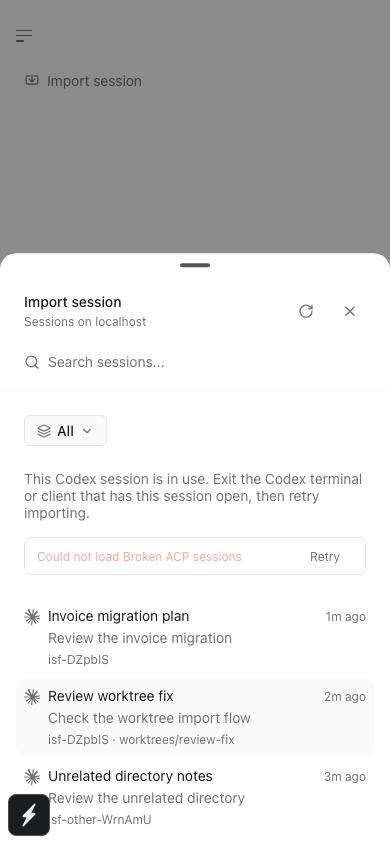
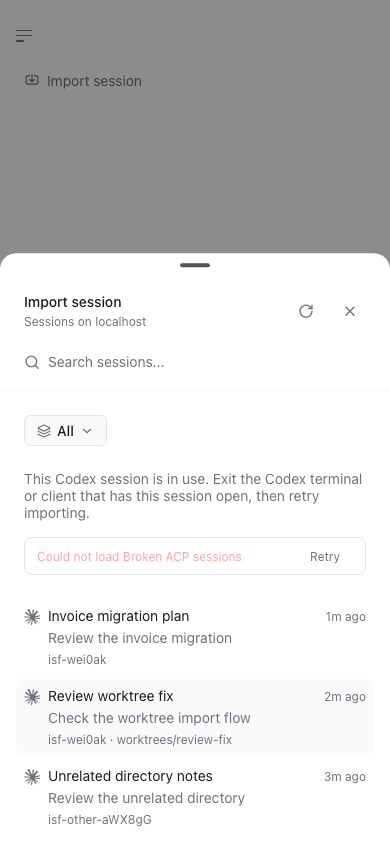
test(app): cover session import edge cases
Cover older matches, paging, and a new typed query while an earlier
provider response is held.

Verify generic filesystem failure copy hides raw details and permits
retry after restoring the path. Clean up projects created by the test.

Refresh the screenshot showing current active-writer guidance.

Detected-By: user

diff --git a/packages/app/e2e/browser/import-session-flow.spec.ts b/packages/app/e2e/browser/import-session-flow.spec.ts
@@ -1,6 +1,6 @@
 import { execFileSync } from "node:child_process";
 import { mkdtempSync } from "node:fs";
-import { mkdir, rm, utimes, writeFile } from "node:fs/promises";
+import { mkdir, rename, rm, utimes, writeFile } from "node:fs/promises";
 import { tmpdir } from "node:os";
 import path from "node:path";
 import type { TestInfo } from "@playwright/test";
@@ -120,20 +120,42 @@ test.afterAll(async () => {
   await rm(claudeConfigDirectory, { recursive: true, force: true });
 });
 
-test("filters cached sessions before searching a persistent miss", async ({ page }, testInfo) => {
-  const requests: Array<{ query: string; providers: string }> = [];
+interface SessionRequest {
+  query: string;
+  providers: string;
+  limit: number;
+}
+
+function observeSessionRequests(page: Page): SessionRequest[] {
+  const requests: SessionRequest[] = [];
   page.on("websocket", (socket) =>
     socket.on("framesent", ({ payload }) => {
       if (typeof payload !== "string") return;
-      const frame: { message?: { type?: string; query?: string; providers?: string[] } } =
-        JSON.parse(payload);
+      const frame: {
+        message?: { type?: string; query?: string; providers?: string[]; limit?: number };
+      } = JSON.parse(payload);
       if (frame.message?.type === "fetch_recent_provider_sessions_request")
         requests.push({
           query: frame.message.query ?? "",
           providers: (frame.message.providers ?? []).join(","),
+          limit: frame.message.limit ?? 15,
         });
     }),
   );
+  return requests;
+}
+
+function sessionRequestProviders(request: object): string {
+  if (!("providers" in request) || !Array.isArray(request.providers)) {
+    throw new Error("Session request must identify its providers");
+  }
+  return request.providers.join(",");
+}
+
+test("keeps cached matches visible while finding older matches and paging the host results", async ({
+  page,
+}, testInfo) => {
+  const requests = observeSessionRequests(page);
   const flow = new ImportSessionFlow(page);
   await flow.openWorkspace(scenario.project.workspaceId, { width: 390, height: 844 });
   await flow.openGlobally();
@@ -141,33 +163,90 @@ test("filters cached sessions before searching a persistent miss", async ({ page
     first: [scenario.importSessionId, "fixture-worktree", "fixture-unrelated"],
   });
   await flow.expectProviderError("Broken ACP");
-  expect(requests.length).toBeGreaterThan(0);
-  const initialRequests = [...requests];
+  const initialProviders = [...new Set(requests.map((request) => request.providers))].sort();
+  expect(initialProviders).toContain("claude");
+  expect(initialProviders).toContain(brokenProvider);
   await page.clock.install();
-  await flow.search("invoice");
-  await page.clock.runFor(600);
-  expect(requests).toEqual(initialRequests);
-  await page.getByTestId("import-session-search").fill("no-such-session");
-  await page.clock.runFor(200);
-  expect(requests).toEqual(initialRequests);
-  await flow.search("invoice");
-  await page.clock.runFor(600);
-  expect(requests).toEqual(initialRequests);
-  await page.getByTestId("import-session-search").fill("fixture item 20");
+  await page.clock.pauseAt(Date.now() + 1_000);
+  const search = page.getByTestId("import-session-search");
+  await search.fill("invoice");
+  await expect(page.getByText("Invoice migration plan", { exact: true })).toBeVisible();
+  await expect(page.getByText("Root session 20", { exact: true })).toHaveCount(0);
+  // Paging remains available while the typed query catches up with the host query.
+  await expect(page.getByTestId("import-session-load-more")).toBeVisible();
+  expect(requests.filter((request) => request.query === "invoice")).toEqual([]);
   await page.clock.runFor(450);
   await expect(page.getByText("Root session 20", { exact: true })).toBeVisible();
   expect(
     requests
-      .filter((request) => request.query === "fixture item 20")
+      .filter((request) => request.query === "invoice")
       .map((request) => request.providers)
       .sort(),
-  ).toEqual([...new Set(initialRequests.map((request) => request.providers))].sort());
-  await page.getByTestId("import-session-search").fill("item 20");
-  await page.clock.runFor(600);
-  expect(requests.filter((request) => request.query === "item 20")).toEqual([]);
+  ).toEqual(initialProviders);
+  await expect(page.getByTestId("import-session-load-more")).toHaveCount(0);
+
+  await search.fill("no-such-session");
+  await page.clock.runFor(200);
+  await search.fill("Root session");
+  await page.clock.runFor(450);
+  await expect(page.getByTestId("import-session-load-more")).toBeEnabled();
+  expect(requests.filter((request) => request.query === "no-such-session")).toEqual([]);
+  await expect(page.getByText("Root session 19", { exact: true })).toHaveCount(0);
+  await page.getByTestId("import-session-load-more").click();
+  await expect(page.getByTestId("import-session-session-claude-fixture-root-19")).toHaveCount(1);
+  await expect(page.locator('[data-testid^="import-session-session-claude-"]')).toHaveCount(20);
+  await expect(page.getByTestId("import-session-load-more")).toHaveCount(0);
+  expect(
+    requests
+      .filter((request) => request.query === "Root session" && request.providers === "claude")
+      .map((request) => request.limit),
+  ).toEqual([15, 45]);
   await page.screenshot({ path: testInfo.outputPath("cached-session-search.png") });
-  await page.getByRole("button", { name: "Close", exact: true }).click();
-  await expect(page.getByTestId("import-session-sheet")).toHaveCount(0);
+});
+
+test("starts a new session search while a previous provider request is pending", async ({
+  page,
+}) => {
+  const gate = await installDaemonWebSocketGate(page);
+  try {
+    const flow = new ImportSessionFlow(page);
+    await flow.openWorkspace(scenario.project.workspaceId, { width: 390, height: 844 });
+    await flow.openGlobally();
+    await flow.expectRows({
+      first: [scenario.importSessionId, "fixture-worktree", "fixture-unrelated"],
+    });
+    await flow.expectProviderError("Broken ACP");
+    await expect(page.getByTestId("import-session-load-more")).toBeEnabled();
+    const requestType = "fetch_recent_provider_sessions_request";
+    const initialProviders = [
+      ...new Set(gate.getClientRequests(requestType).map(sessionRequestProviders)),
+    ].sort();
+    expect(initialProviders).toContain(brokenProvider);
+    expect(initialProviders).toContain("claude");
+    await page.clock.install();
+    await page.clock.pauseAt(Date.now() + 1_000);
+    const responseType = "fetch_recent_provider_sessions_response";
+    gate.holdNextServerMessage(responseType);
+    const search = page.getByTestId("import-session-search");
+    await search.fill("invoice");
+    await page.clock.runFor(450);
+    await gate.waitForHeldServerMessage(responseType);
+    await search.fill("Root session 20");
+    await page.clock.runFor(450);
+    await expect
+      .poll(() =>
+        gate
+          .getClientRequests(requestType)
+          .filter((request) => "query" in request && request.query === "Root session 20")
+          .map(sessionRequestProviders)
+          .sort(),
+      )
+      .toEqual(initialProviders);
+    await expect(page.getByText("Root session 20", { exact: true })).toBeVisible();
+    gate.releaseHeldServerMessage(responseType);
+  } finally {
+    gate.restore();
+  }
 });
 
 test("an open Import Session row keeps its age current", async ({ page }) => {
@@ -301,6 +380,44 @@ test("an active-writer conflict shows specific guidance instead of a generic fai
   }
 });
 
+test("an import failure keeps generic copy visible and permits retry after recovery", async ({
+  page,
+}, testInfo) => {
+  const flow = new ImportSessionFlow(page);
+  await flow.openWorkspace(scenario.project.workspaceId, { width: 390, height: 844 });
+  await flow.openGlobally();
+  const row = page.getByTestId("import-session-session-claude-fixture-worktree");
+  await expect(row).toBeVisible();
+  const unavailableDirectory = `${scenario.worktreeDirectory}-unavailable`;
+  const originalProjectIds = new Set(
+    (await client.listProjects()).projects.map((project) => project.projectId),
+  );
+  try {
+    await rename(scenario.worktreeDirectory, unavailableDirectory);
+    try {
+      await row.click();
+      await expect(
+        page.getByText("Could not import selected session.", { exact: true }),
+      ).toBeVisible();
+      await expect(page.getByTestId("import-session-sheet")).toBeVisible();
+      await expect(row).toBeEnabled();
+      await expect(page.getByText(/Working directory does not exist|ENOENT/)).toHaveCount(0);
+      await capture(page, testInfo, "14-mobile-generic-import-failure.png");
+    } finally {
+      await rename(unavailableDirectory, scenario.worktreeDirectory);
+    }
+    await flow.importSession("fixture-worktree");
+    await expect(page.getByTestId("user-message").filter({ visible: true })).toContainText(
+      "Check the worktree import flow",
+    );
+  } finally {
+    const createdProjects = (await client.listProjects()).projects.filter(
+      (project) => !originalProjectIds.has(project.projectId),
+    );
+    await Promise.all(createdProjects.map((project) => client.removeProject(project.projectId)));
+  }
+});
+
 async function capture(page: Page, testInfo: TestInfo, name: string): Promise<void> {
   const outputPath = testInfo.outputPath(name);
   await page.screenshot({ path: outputPath, fullPage: true });
@@ -336,7 +453,9 @@ async function seedClaudeSessions(input: {
       cwd: [input.projectRoot, input.worktreeDirectory, input.unrelatedDirectory][index % 3]!,
       id: `fixture-root-${String(index + 1).padStart(2, "0")}`,
       title: `Root session ${String(index + 1).padStart(2, "0")}`,
-      prompt: index === 7 ? "Investigate invoice rendering" : `Review fixture item ${index + 1}`,
+      prompt: [7, 19].includes(index)
+        ? "Investigate invoice rendering"
+        : `Review fixture item ${index + 1}`,
     })),
   ];
   const newest = Date.now() - 60_000;
